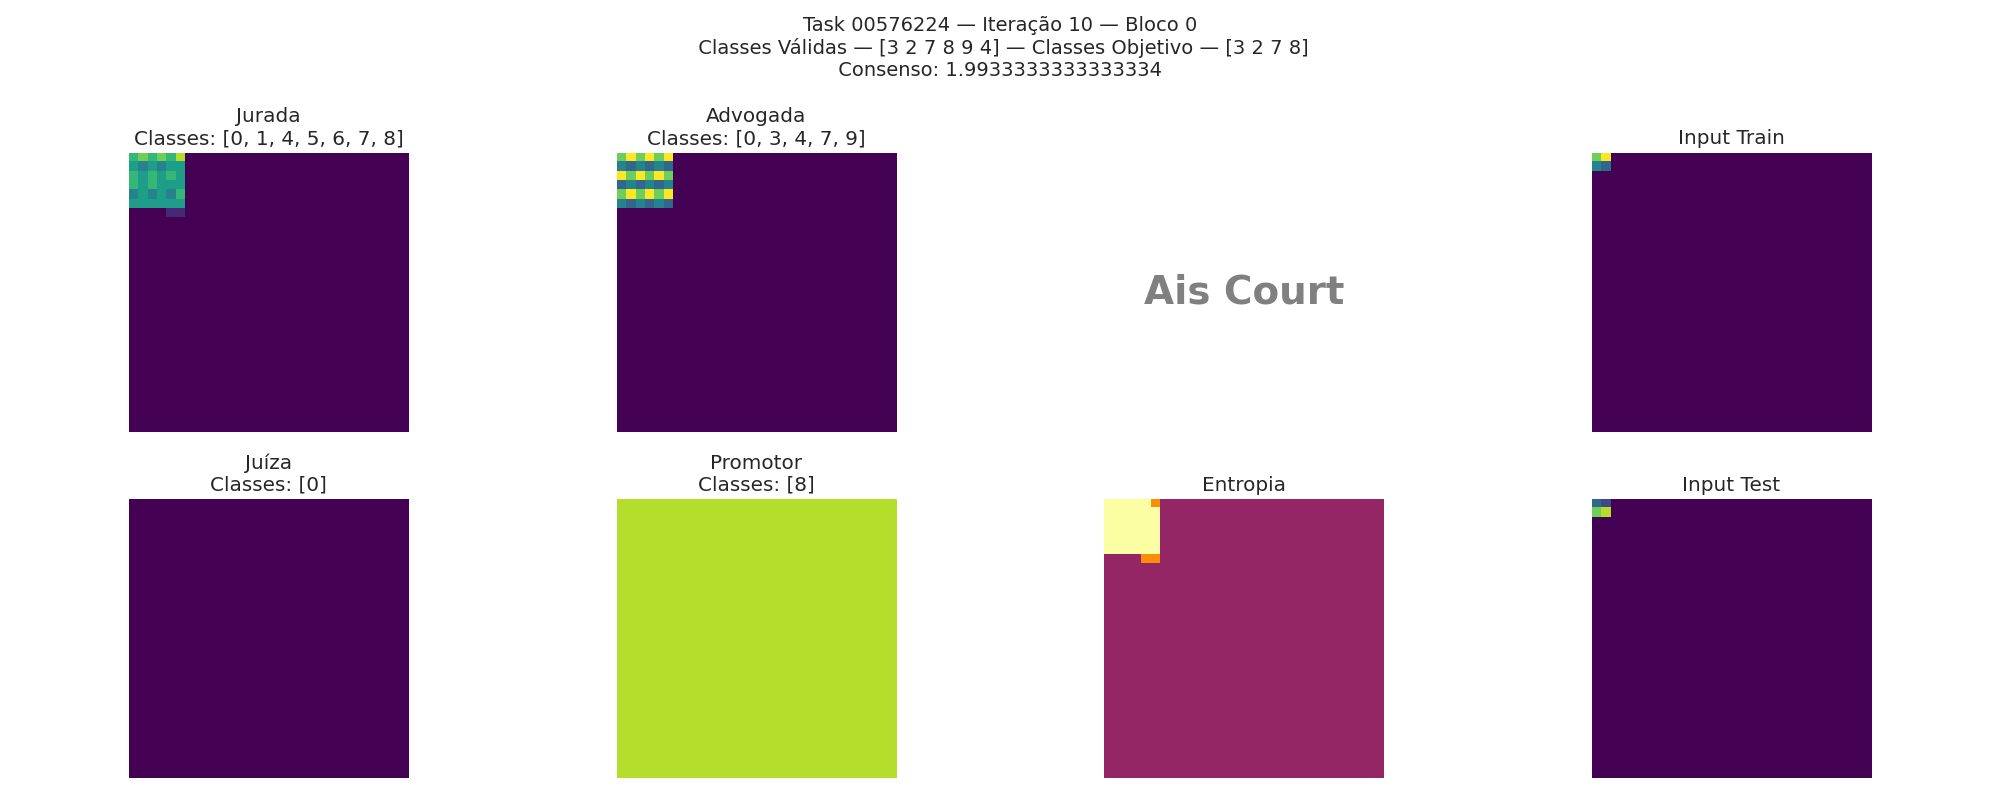
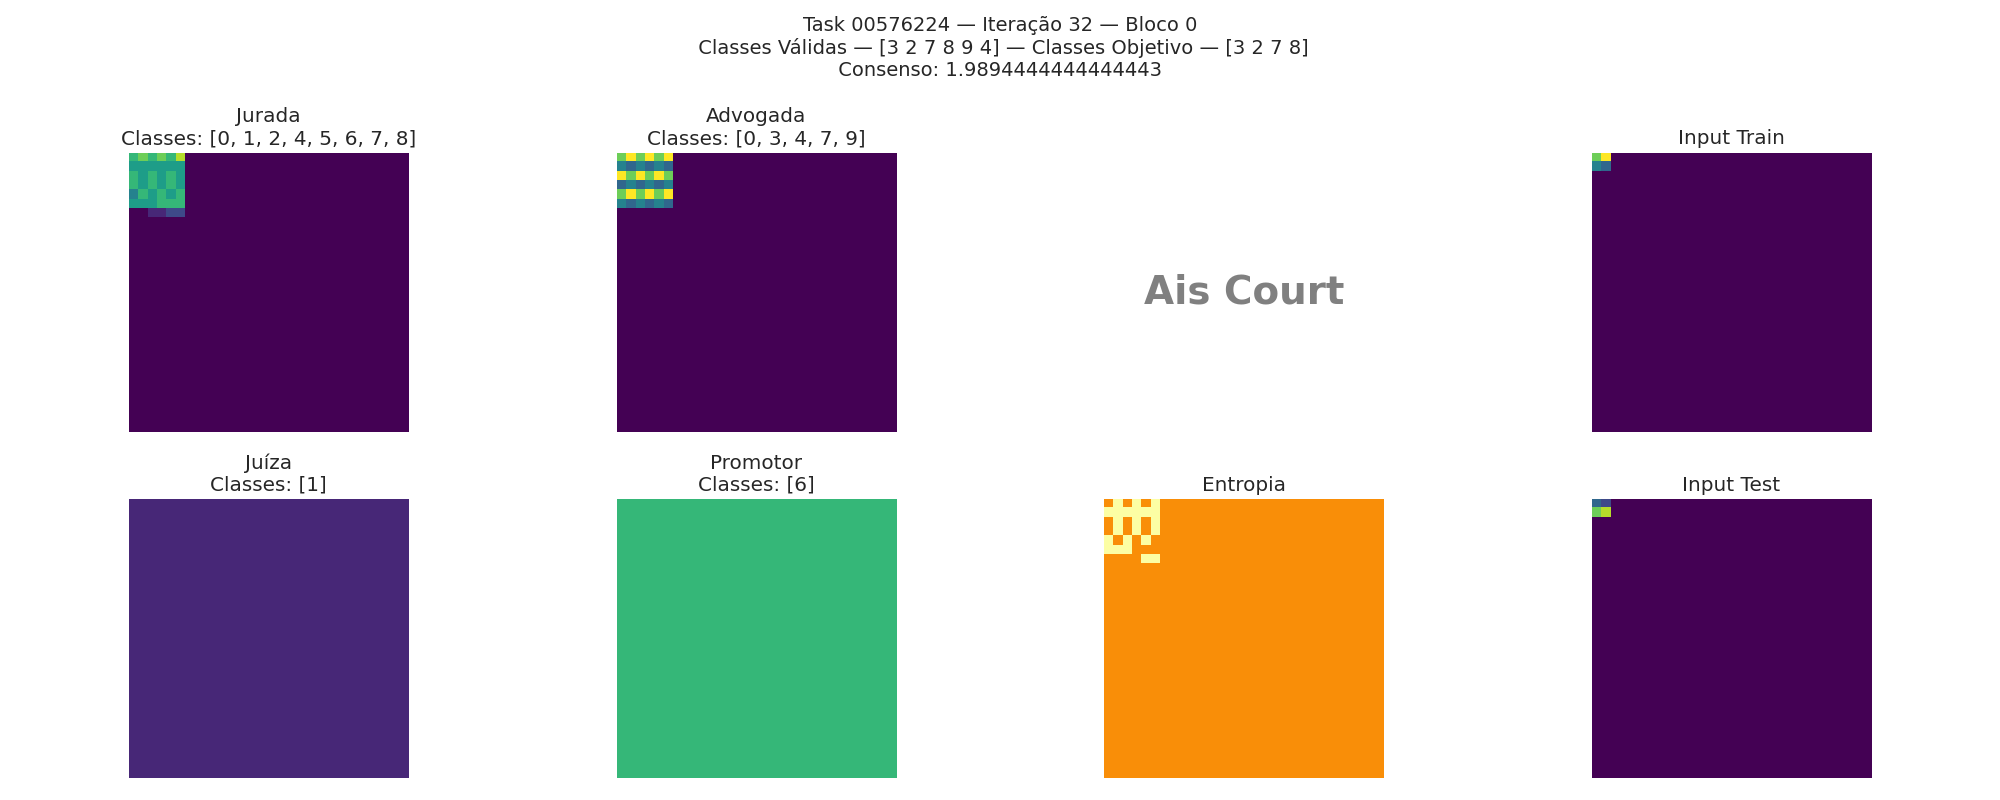
changes on logic

diff --git a/court_logic.py b/court_logic.py
@@ -122,6 +122,36 @@ def arc_court_supreme(models, X_train, y_train, y_val, X_test, task_id=None, blo
 
 
 
+        # Atualize os votos com base nas previsões dos modelos atualizados
+        for i in range(4):
+            if i != 1:
+                votos_models[f"modelo_{i}"] = modelos[i](X_test, training=False)
+            else:
+                votos_models[f"modelo_{i}"] = modelos[i](X_train, training=False)
+        # Stack com as previsões atualizadas
+        preds_stack = tf.stack(
+            [
+                tf.expand_dims(
+                    tf.cast(
+                        tf.squeeze(tf.argmax(extrair_canal_cor(p), axis=-1, output_type=tf.int64), axis=0),
+                        tf.int32
+                    ),
+                    axis=-1
+                )
+                for k, p in votos_models.items() if isinstance(p, tf.Tensor) and k != "modelo_0"
+            ],
+            axis=0
+        )
+
+
+        # Atualize os labels de acordo com o novo consenso/antítese
+        y_sup = pixelwise_mode(preds_stack)
+        y_sup_recolorido = mapear_cores_para_x_test(y_sup, classes_objetivo)
+        y_antitese = inverter_classes_respeitando_valores(y_sup_recolorido, classes_objetivo, pad_value=pad_value)
+        y_sup_redi = expandir_para_3_canais(y_sup_recolorido)
+        y_antitese_redi = expandir_para_3_canais(y_antitese)
+
+        # Treine usando os novos rótulos a cada ciclo!
         treinar_modelo_com_y_sparse(modelos[2], X_test, y_sup_redi, epochs=epochs * 3)
         treinar_modelo_com_y_sparse(modelos[3], X_test, y_antitese_redi, epochs=epochs * 3)
 
